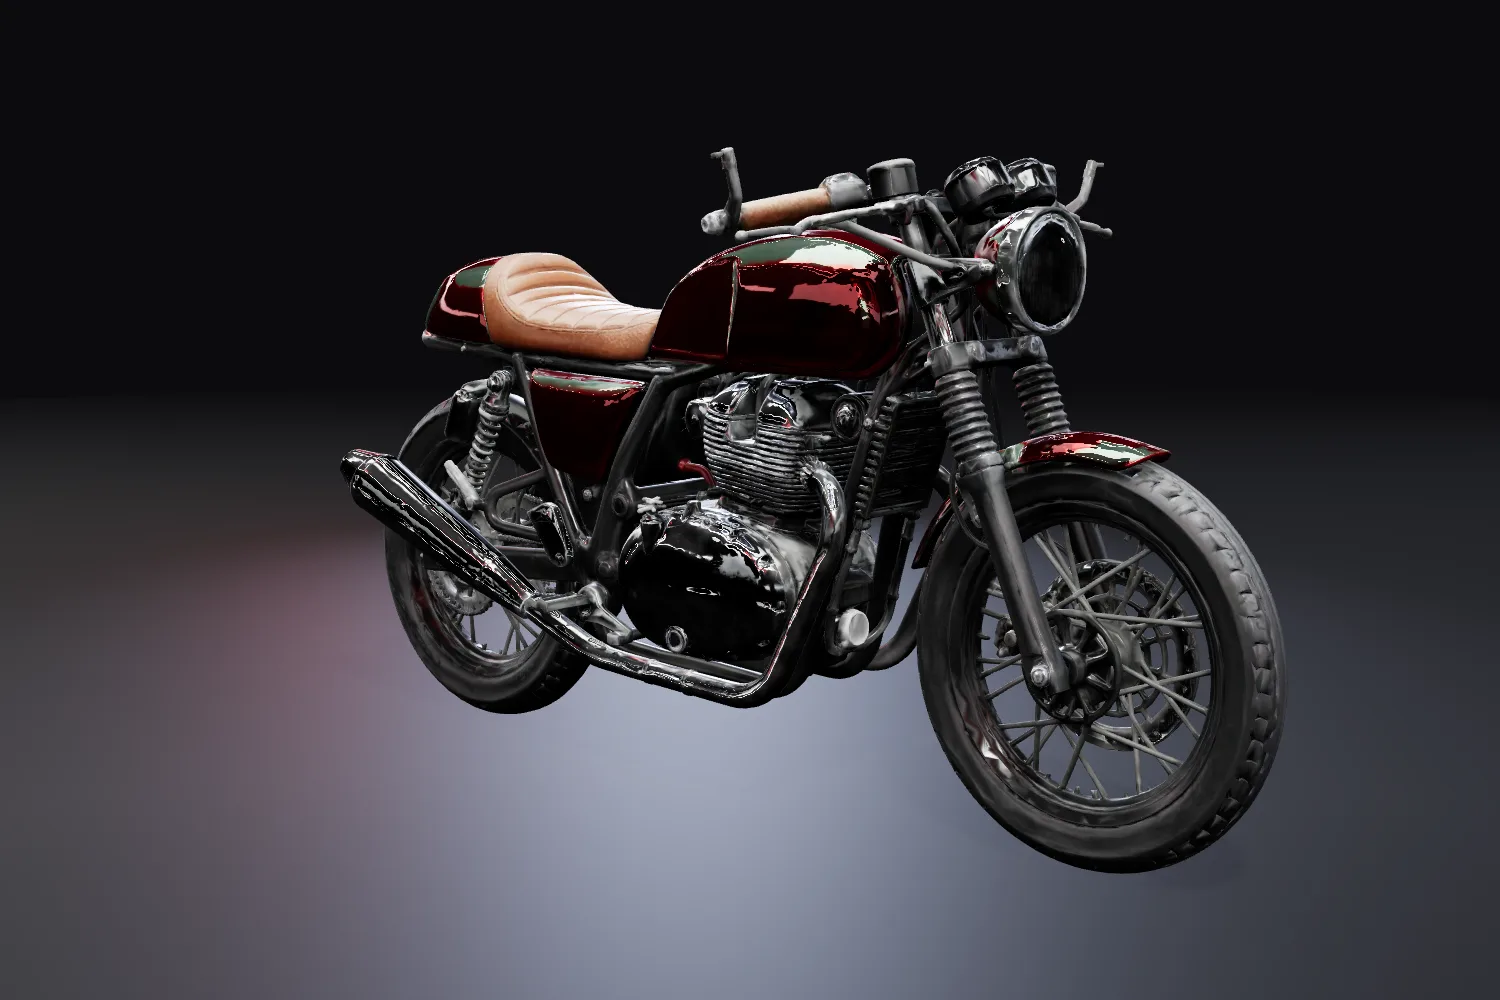
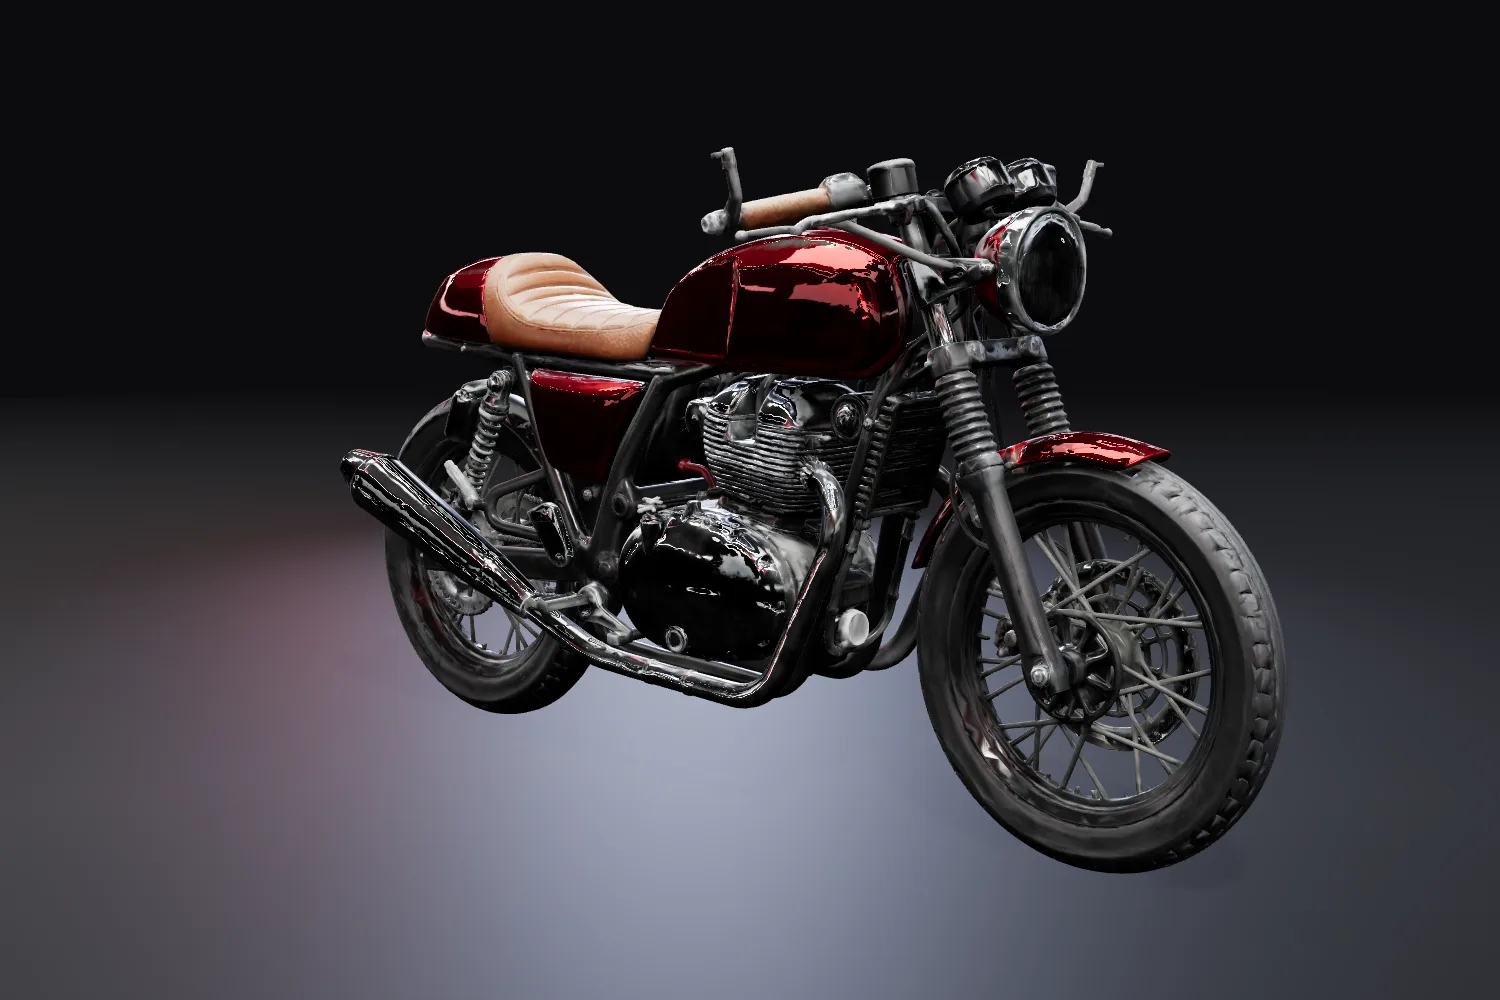
Volterra: final stills, solid-paint metalness override, QA timing fixes
Re-render all stills with the softened studio floor, widen the Classica
paint mask and add a per-paint metalness override so light finishes
like Ivory read correctly. Make QA scroll checks poll instead of using
fixed waits, and allow re-rendering a single bike.

Claude-Session: https://claude.ai/code/session_01QCbLLiE3V2zktVRbEFR7HC

diff --git a/volterra-motorcycles/src/three/paintMaterial.ts b/volterra-motorcycles/src/three/paintMaterial.ts
@@ -21,6 +21,8 @@ export interface PaintUniforms {
   uPaintSrcV: { value: number };
   uPaintRough: { value: number };
   uPaintRoughMix: { value: number };
+  uPaintMetal: { value: number };
+  uPaintMetalMix: { value: number };
 }
 
 const GLSL_HELPERS = /* glsl */ `
@@ -32,6 +34,8 @@ uniform float uPaintMinSat;
 uniform float uPaintSrcV;
 uniform float uPaintRough;
 uniform float uPaintRoughMix;
+uniform float uPaintMetal;
+uniform float uPaintMetalMix;
 float vtPaintMask = 0.0;
 
 vec3 vt_rgb2hsv(vec3 c) {
@@ -72,6 +76,11 @@ const GLSL_ROUGH = /* glsl */ `
 roughnessFactor = mix(roughnessFactor, uPaintRough, vtPaintMask * uPaintRoughMix);
 `;
 
+const GLSL_METAL = /* glsl */ `
+#include <metalnessmap_fragment>
+metalnessFactor = mix(metalnessFactor, uPaintMetal, vtPaintMask * uPaintMetalMix);
+`;
+
 export function patchPaintMaterial(material: THREE.MeshStandardMaterial, cfg: Model3D): PaintUniforms {
   const uniforms: PaintUniforms = {
     uPaintMix: { value: 0 },
@@ -83,6 +92,8 @@ export function patchPaintMaterial(material: THREE.MeshStandardMaterial, cfg: Mo
     uPaintSrcV: { value: cfg.paintValue },
     uPaintRough: { value: 0.5 },
     uPaintRoughMix: { value: 0 },
+    uPaintMetal: { value: 0.1 },
+    uPaintMetalMix: { value: 0 },
   };
 
   material.onBeforeCompile = (shader) => {
@@ -90,9 +101,10 @@ export function patchPaintMaterial(material: THREE.MeshStandardMaterial, cfg: Mo
     shader.fragmentShader = shader.fragmentShader
       .replace('#include <common>', `#include <common>\n${GLSL_HELPERS}`)
       .replace('#include <map_fragment>', GLSL_RECOLOR)
-      .replace('#include <roughnessmap_fragment>', GLSL_ROUGH);
+      .replace('#include <roughnessmap_fragment>', GLSL_ROUGH)
+      .replace('#include <metalnessmap_fragment>', GLSL_METAL);
   };
-  material.customProgramCacheKey = () => 'volterra-paint-v1';
+  material.customProgramCacheKey = () => 'volterra-paint-v2';
   material.needsUpdate = true;
   return uniforms;
 }

diff --git a/volterra-motorcycles/src/data/motorcycles.ts b/volterra-motorcycles/src/data/motorcycles.ts
@@ -32,6 +32,8 @@ export interface PaintOption {
   tint: string | null;
   /** Optional roughness override for the paint (0 = mirror, 1 = matte) */
   roughness?: number;
+  /** Optional metalness override for the paint (0 = solid colour, 1 = metallic) */
+  metalness?: number;
   /** Rendered still for this paint, used in cards / fallbacks */
   image: string;
 }
@@ -200,15 +202,15 @@ export const motorcycles: Motorcycle[] = [
     model3d: {
       url: glb('classica-900.glb'),
       paintHue: 0.38,
-      hueRange: 0.08,
-      minSaturation: 0.3,
+      hueRange: 0.12,
+      minSaturation: 0.16,
       paintValue: 0.27,
       yaw: -Math.PI / 2,
     },
     paints: [
       { id: 'racing-green', name: 'Racing Green', swatch: '#14512c', tint: null, image: img('classica-900-racing-green.webp') },
       { id: 'oxblood', name: 'Oxblood', swatch: '#5b1a1c', tint: '#5b1a1c', image: img('classica-900-oxblood.webp') },
-      { id: 'ivory', name: 'Ivory', swatch: '#d9d1bd', tint: '#d9d1bd', image: img('classica-900-ivory.webp') },
+      { id: 'ivory', name: 'Ivory', swatch: '#d9d1bd', tint: '#e2dac6', metalness: 0.05, roughness: 0.3, image: img('classica-900-ivory.webp') },
     ],
     performance: [
       { label: 'Engine', value: 'Parallel twin, air/oil-cooled, SOHC 8v' },

diff --git a/volterra-motorcycles/src/three/BikeModel.tsx b/volterra-motorcycles/src/three/BikeModel.tsx
@@ -22,7 +22,7 @@ interface Props {
 export function BikeModel({ model, paint, onReady }: Props) {
   const gltf = useGLTF(model.url);
   const uniformsRef = useRef<PaintUniforms[]>([]);
-  const target = useRef({ mix: 0, tint: new THREE.Color(1, 1, 1), rough: 0.5, roughMix: 0 });
+  const target = useRef({ mix: 0, tint: new THREE.Color(1, 1, 1), rough: 0.5, roughMix: 0, metal: 0.1, metalMix: 0 });
 
   const scene = useMemo(() => {
     const root = gltf.scene.clone(true);
@@ -91,6 +91,8 @@ export function BikeModel({ model, paint, onReady }: Props) {
     }
     t.roughMix = paint?.roughness != null && paint.tint ? 1 : 0;
     if (paint?.roughness != null) t.rough = paint.roughness;
+    t.metalMix = paint?.metalness != null && paint.tint ? 1 : 0;
+    if (paint?.metalness != null) t.metal = paint.metalness;
   }, [paint]);
 
   // Smoothly blend paint changes
@@ -104,6 +106,8 @@ export function BikeModel({ model, paint, onReady }: Props) {
       u.uPaintMix.value += (t.mix - u.uPaintMix.value) * k;
       u.uPaintRough.value = t.rough;
       u.uPaintRoughMix.value += (t.roughMix - u.uPaintRoughMix.value) * k;
+      u.uPaintMetal.value = t.metal;
+      u.uPaintMetalMix.value += (t.metalMix - u.uPaintMetalMix.value) * k;
     }
   });
 

diff --git a/volterra-motorcycles/README.md b/volterra-motorcycles/README.md
@@ -61,7 +61,7 @@ Meshopt decoding is bundled with drei, so no external decoder is fetched.
 **Paint switching.** These models have a single baked texture, so there is no separate paint
 material to swap. Instead, `src/three/paintMaterial.ts` patches the PBR shader: texels near the
 factory paint hue get re-tinted to the chosen colour while keeping their original shading.
-Each paint can also override roughness (for example, Graphite Matte). When you get a manufacturer
+Each paint can also override roughness (for example, Graphite Matte) and metalness (for example, the solid Ivory, so light colours don't just mirror the dark studio). When you get a manufacturer
 model with a dedicated paint material, set that material's `color` instead.
 
 **Every image on the site is rendered from these 3D models**, with the same studio lighting:
